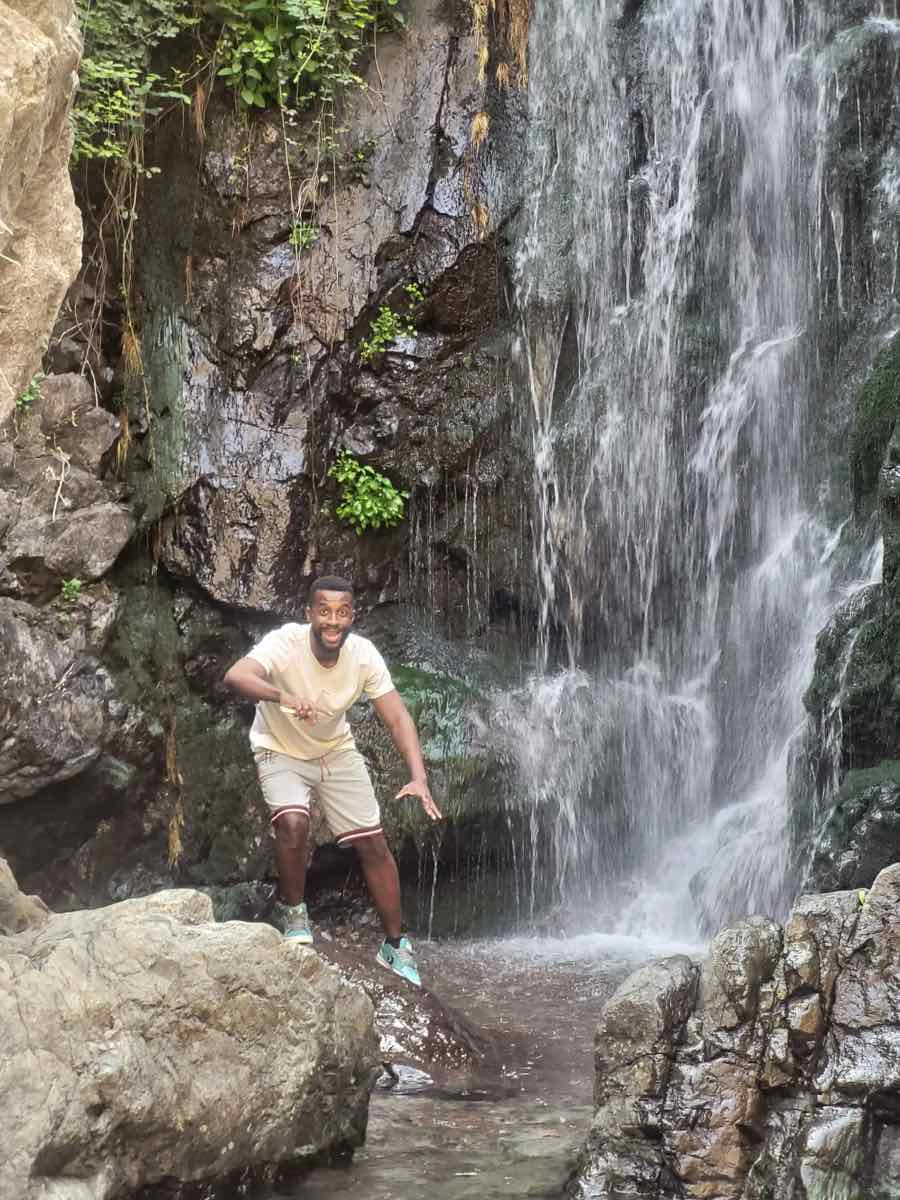
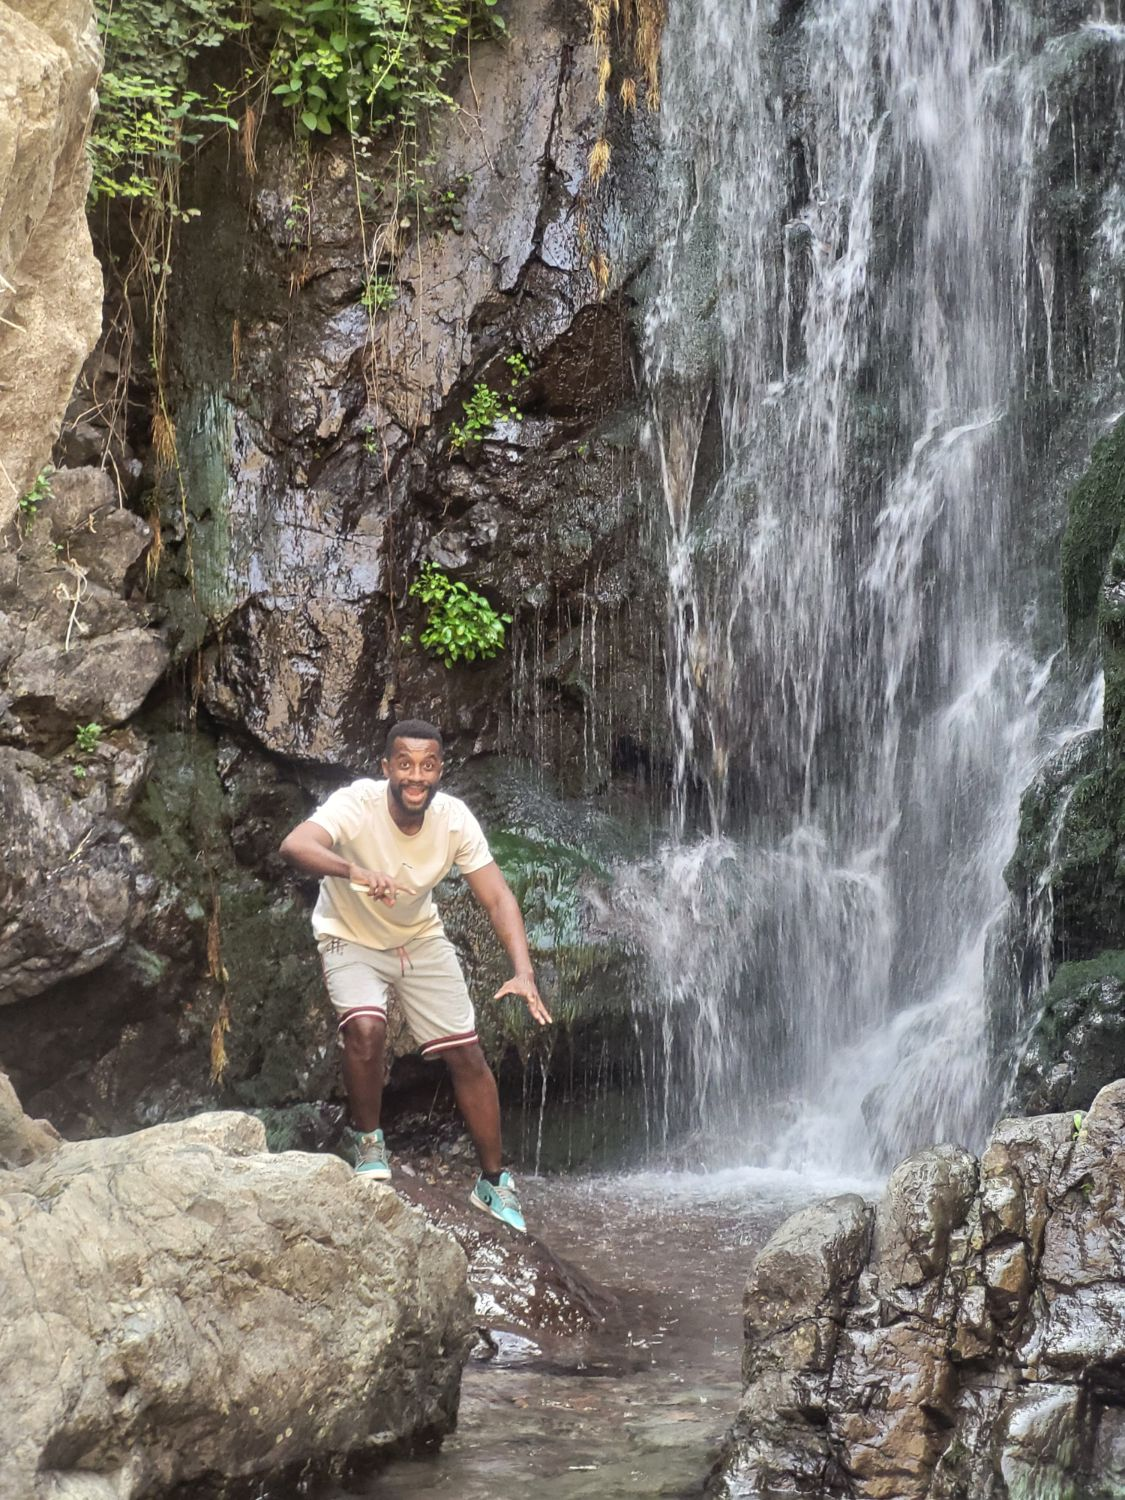
style: use the original uncropped About photo

diff --git a/docs/stylesheets/extra.css b/docs/stylesheets/extra.css
@@ -1231,10 +1231,6 @@ body:has(.section-hero) .md-content__inner::before {
   display: block;
   width: 100%;
   height: auto;
-  aspect-ratio: 4 / 5;
-  object-fit: cover;
-  /* Keep the person, not the waterfall, in the crop */
-  object-position: 36% 62%;
   border: 1px solid var(--card-line);
   border-radius: 6px;
 }

diff --git a/docs/index.md b/docs/index.md
@@ -102,7 +102,7 @@ hide:
 </section>
 
 <section class="home-section home-band home-band--dark home-about" data-search-exclude>
-  <img class="home-about__photo" src="/assets/about/me.jpg" alt="Al-Fahami Toihir in front of a waterfall" width="900" height="1200" loading="lazy">
+  <img class="home-about__photo" src="/assets/about/me.jpg" alt="Al-Fahami Toihir in front of a waterfall" width="1125" height="1500" loading="lazy">
   <div class="home-about__text">
     <span class="home-eyebrow">Behind the notes</span>
     <h2 class="home-section__title">Hi, I'm Al-Fahami. <em>I write these notes.</em></h2>

diff --git a/docs/about/index.md b/docs/about/index.md
@@ -15,7 +15,7 @@ hide:
 </section>
 
 <div class="about" data-search-exclude>
-  <img class="about__photo" src="/assets/about/me.jpg" alt="Al-Fahami Toihir standing on the rocks in front of a waterfall" width="900" height="1200" loading="lazy">
+  <img class="about__photo" src="/assets/about/me.jpg" alt="Al-Fahami Toihir standing on the rocks in front of a waterfall" width="1125" height="1500" loading="lazy">
 
   <div class="about__text">
     <span class="home-eyebrow">What I do</span>
